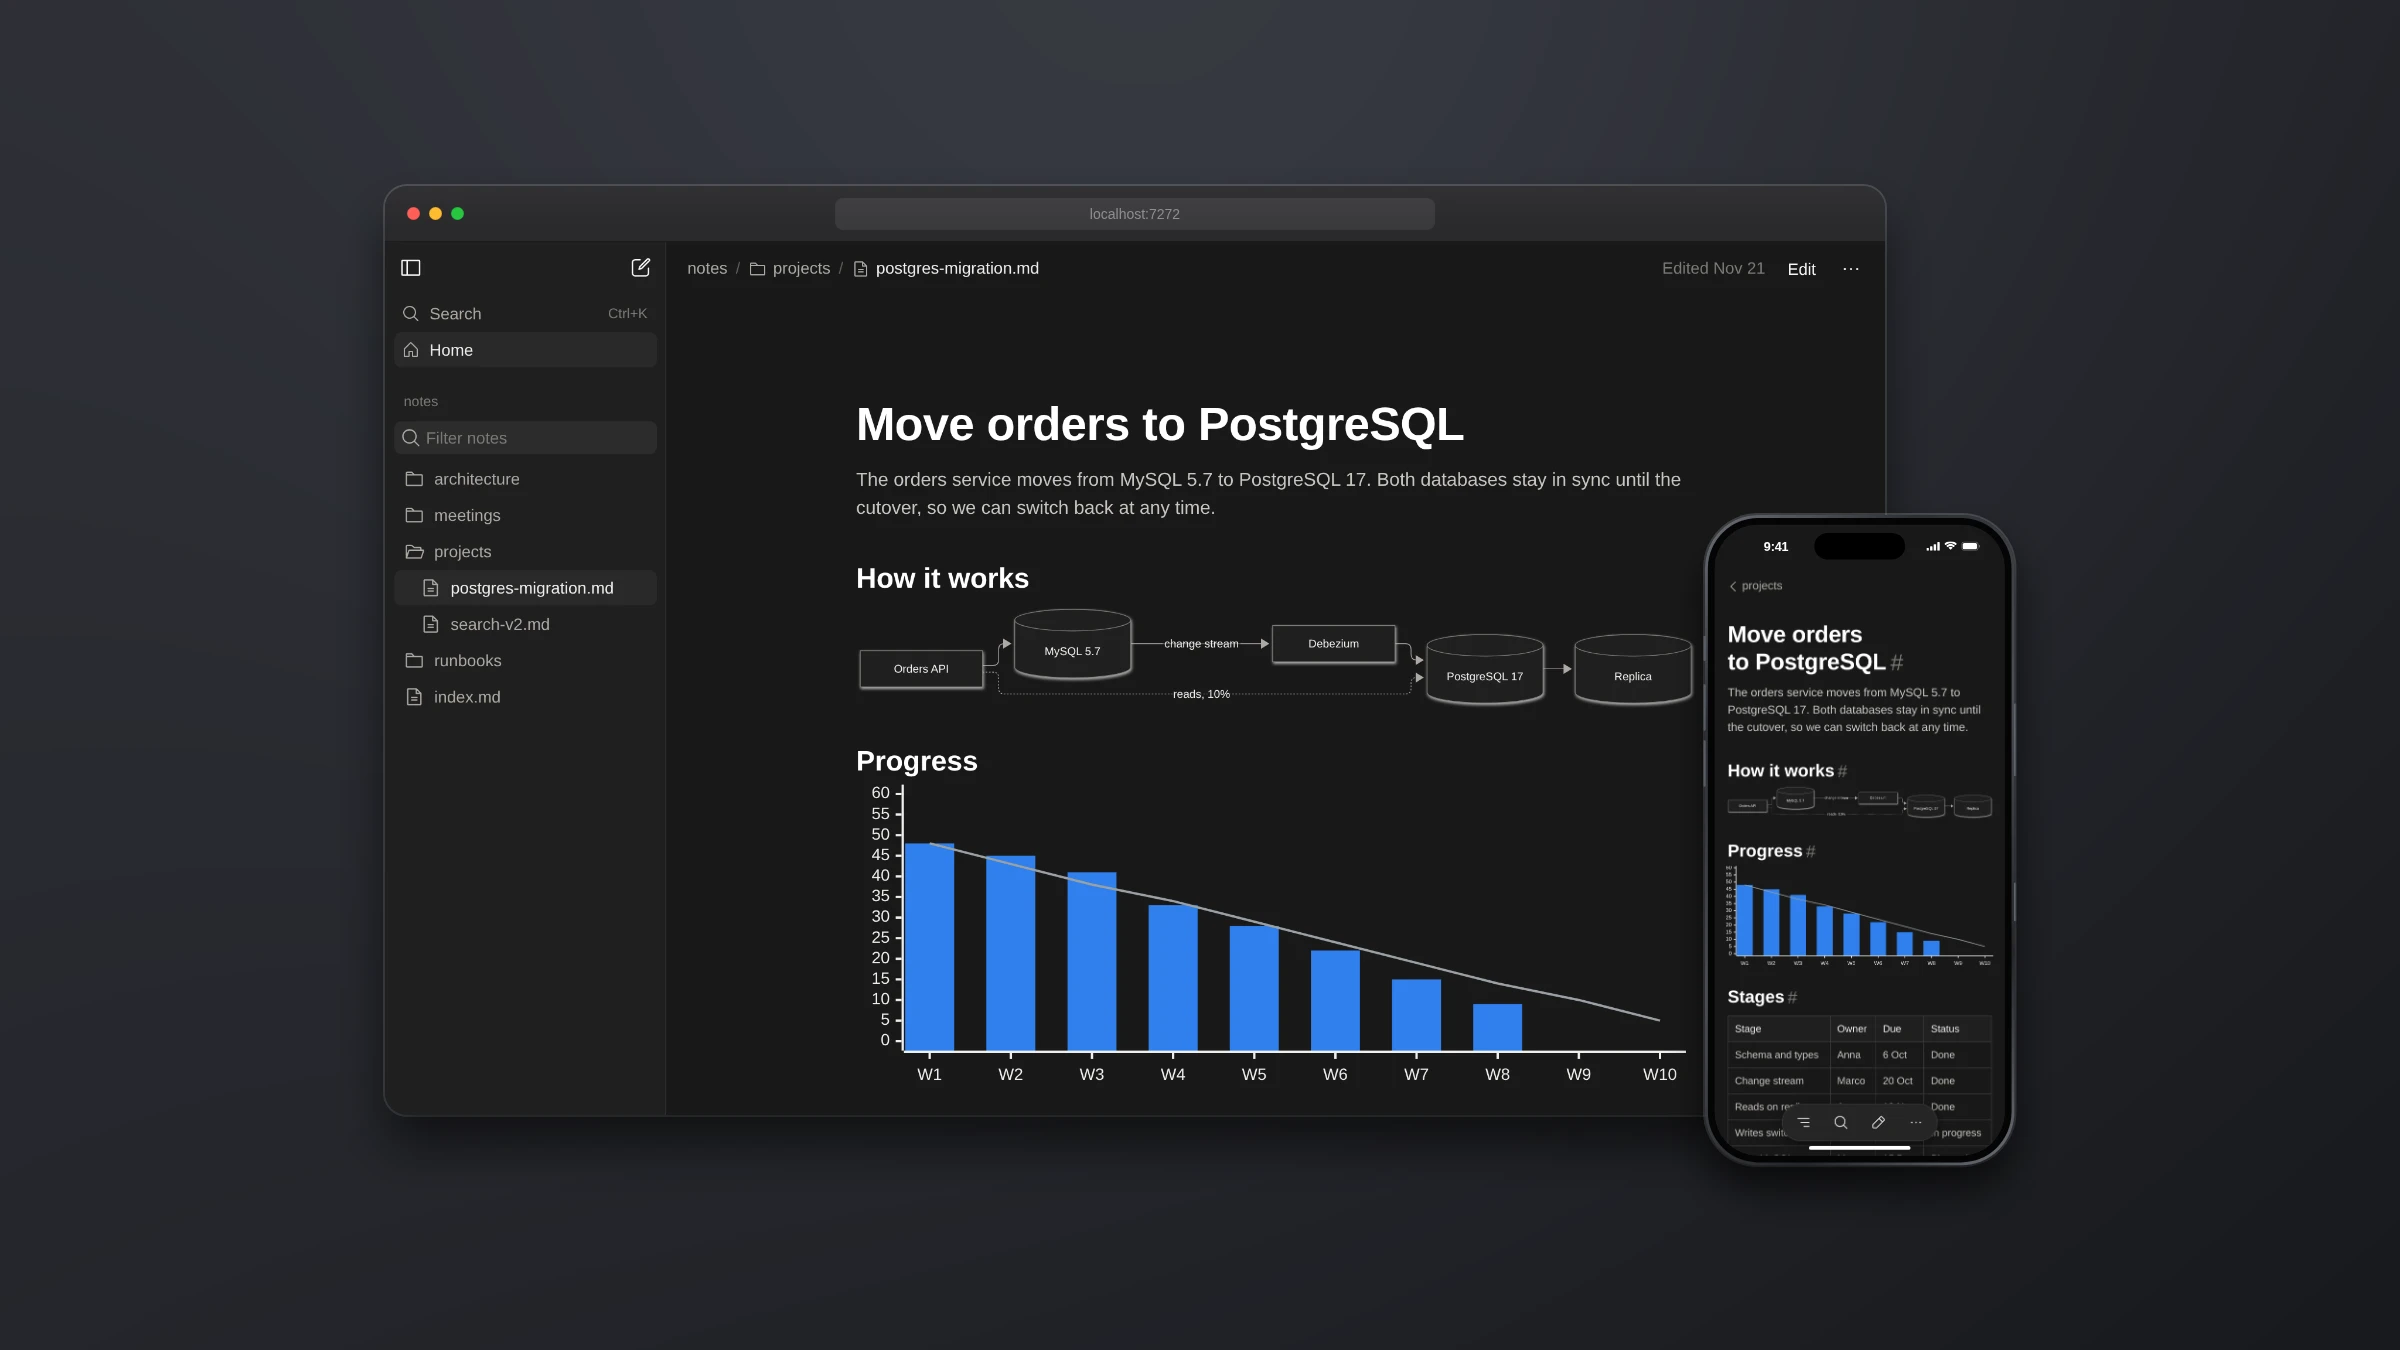
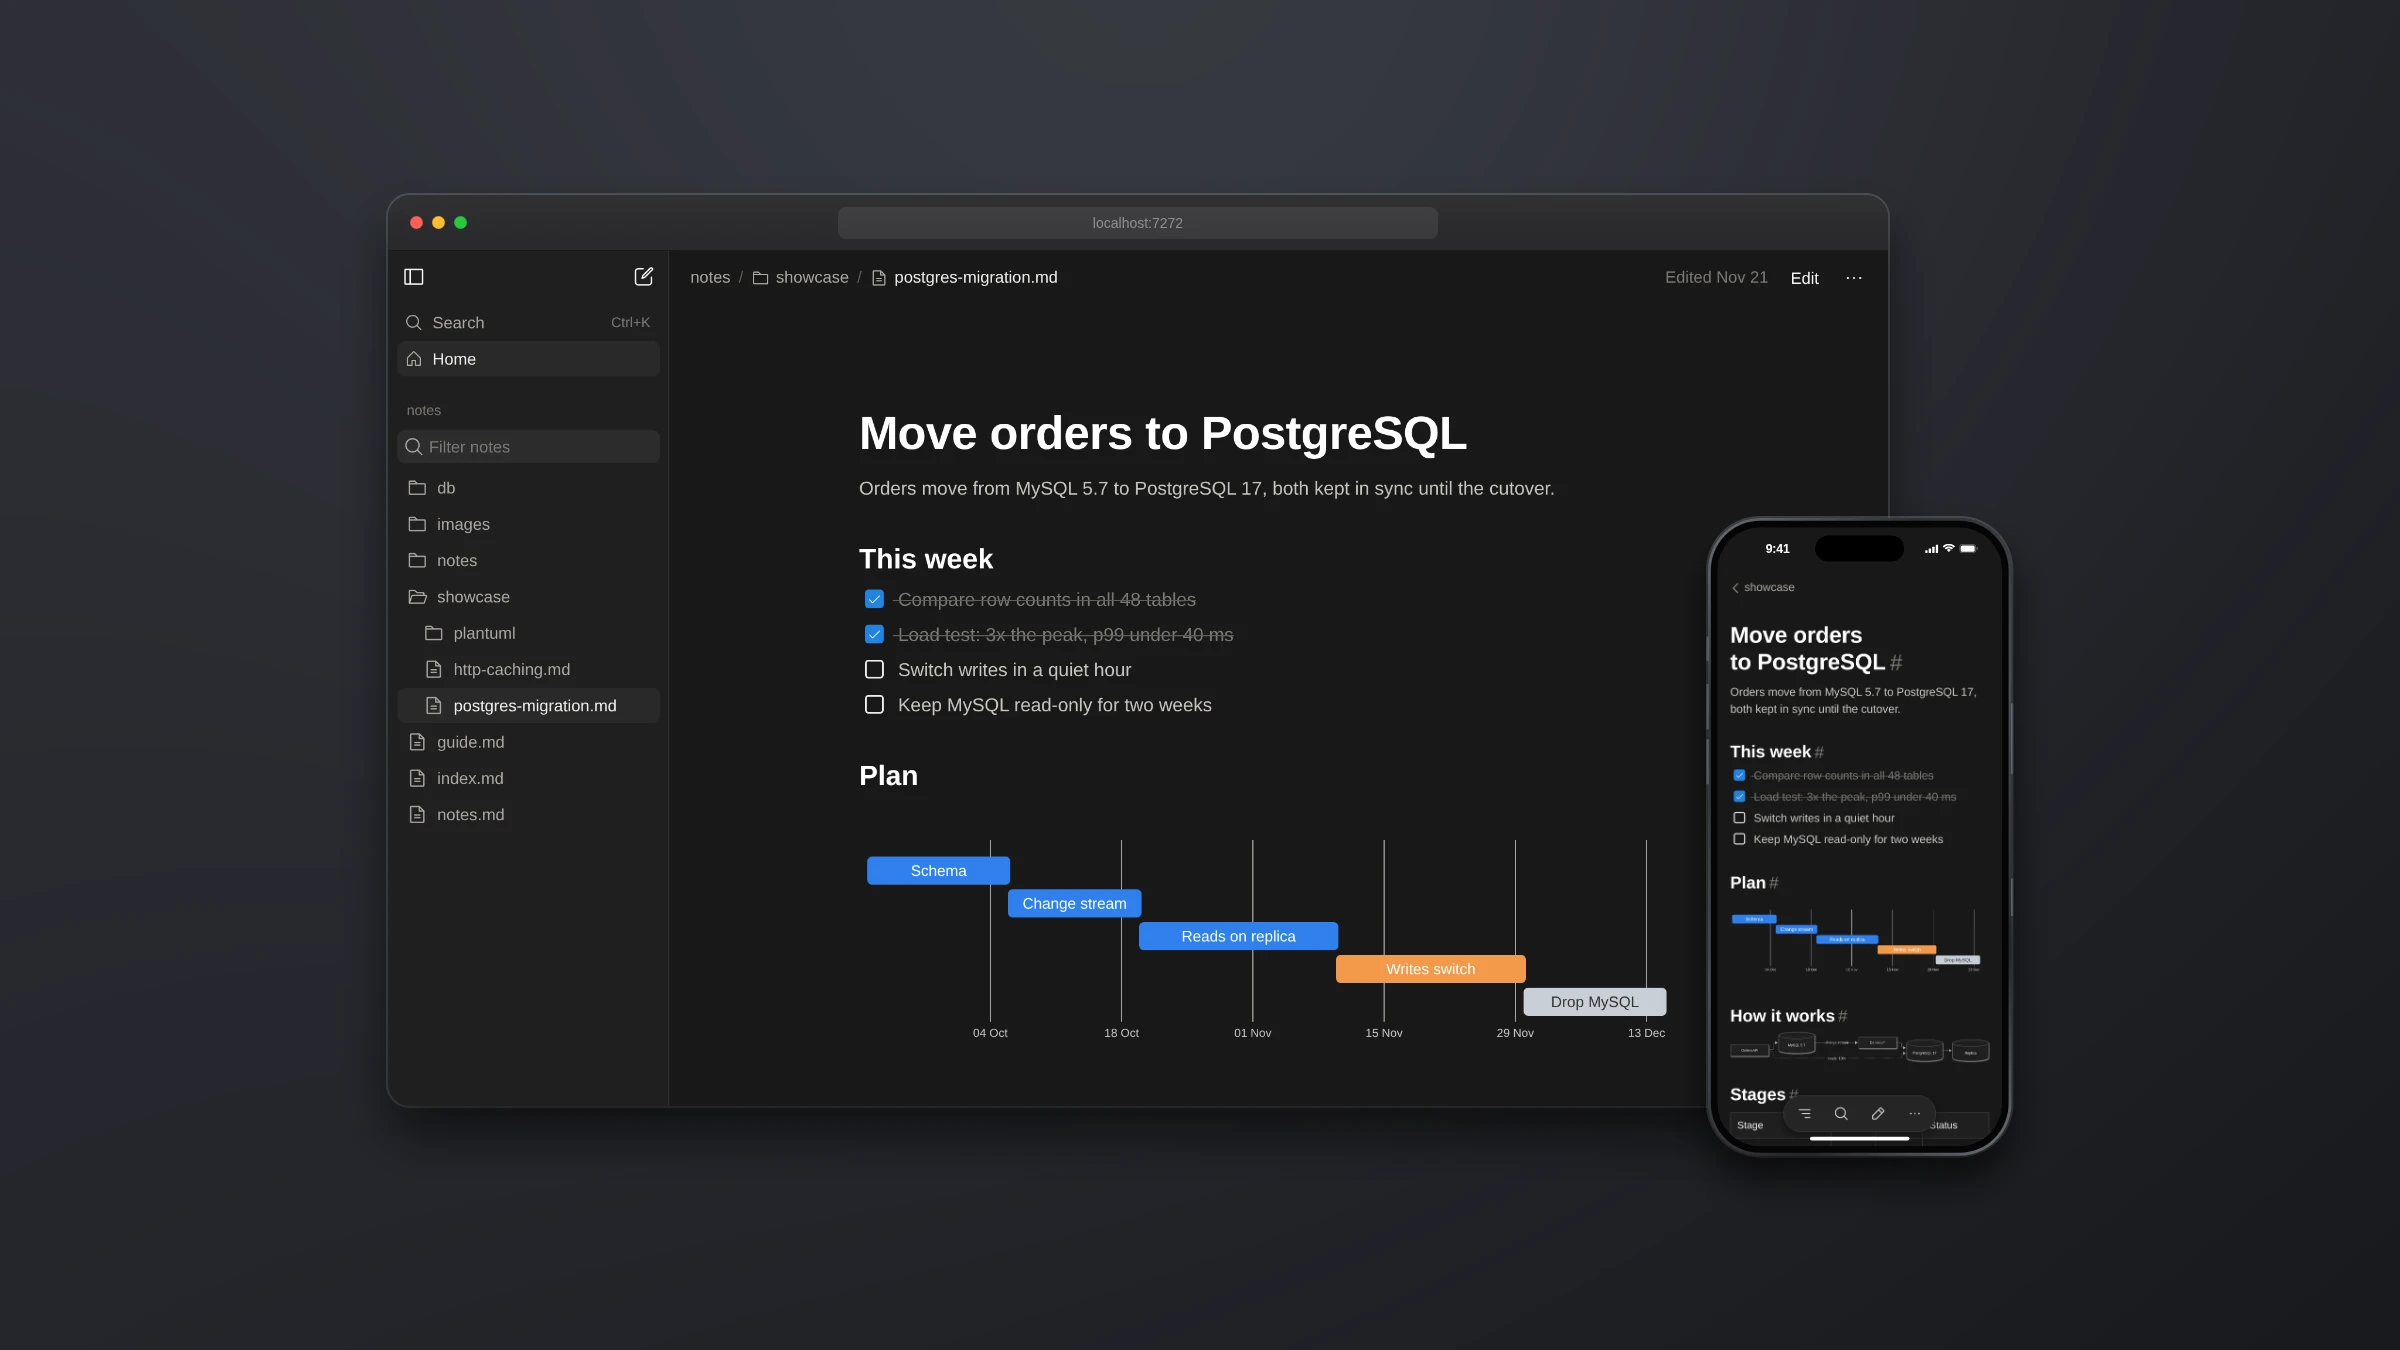
wip

diff --git a/scripts/readme-shots/shoot.js b/scripts/readme-shots/shoot.js
@@ -7,7 +7,7 @@ const {spawn} = require('child_process');
 const repoRoot = path.resolve(__dirname, '..', '..');
 const {chromium} = require(require.resolve('playwright', {paths: [path.join(repoRoot, 'e2e')]}));
 
-const NOTE = 'projects/postgres-migration.md';
+const NOTE = 'showcase/postgres-migration.md';
 const SPACE = 'notes';
 const DESKTOP = {width: 1280, height: 800, scale: 2, cropMargin: 4};
 const PHONE = {width: 402, height: 874, statusBar: 62, homeIndicator: 34, scale: 3};
@@ -30,7 +30,7 @@ function freePort() {
 
 async function serve(binary, work) {
     const root = path.join(work, 'notes');
-    fs.cpSync(path.join(__dirname, 'notes'), root, {recursive: true});
+    fs.cpSync(path.join(repoRoot, 'examples', 'data'), root, {recursive: true});
     const port = await freePort();
     const child = spawn(binary, [
         'serve', `--listen=127.0.0.1:${port}`, `--space.dir=${root}`, `--space.name=${SPACE}`,

diff --git a/examples/data/showcase/postgres-migration.md b/examples/data/showcase/postgres-migration.md
@@ -1,0 +1,75 @@
+# Move orders to PostgreSQL
+
+Orders move from MySQL 5.7 to PostgreSQL 17, both kept in sync until the
+cutover.
+
+## This week
+
+- [x] Compare row counts in all 48 tables
+- [x] Load test: 3x the peak, p99 under 40 ms
+- [ ] Switch writes in a quiet hour
+- [ ] Keep MySQL read-only for two weeks
+
+## Plan
+
+```mermaid
+---
+config:
+  gantt:
+    useWidth: 720
+    barHeight: 22
+    barGap: 6
+    leftPadding: 10
+    rightPadding: 30
+    fontSize: 13
+    sectionFontSize: 13
+  themeVariables:
+    doneTaskBkgColor: "#2f80ed"
+    doneTaskBorderColor: "#2f80ed"
+    activeTaskBkgColor: "#f2994a"
+    activeTaskBorderColor: "#f2994a"
+    taskBkgColor: "#c9ced6"
+    taskBorderColor: "#c9ced6"
+    taskTextColor: "#333333"
+    taskTextDarkColor: "#ffffff"
+    taskTextOutsideColor: "#8a8f98"
+    gridColor: "#9aa0a6"
+    sectionBkgColor: "transparent"
+    altSectionBkgColor: "transparent"
+---
+gantt
+  dateFormat YYYY-MM-DD
+  axisFormat %d %b
+  tickInterval 2week
+  todayMarker off
+  Schema :done, 2026-09-21, 2026-10-06
+  Change stream :done, 2026-10-06, 2026-10-20
+  Reads on replica :done, 2026-10-20, 2026-11-10
+  Writes switch :active, 2026-11-10, 2026-11-30
+  Drop MySQL : 2026-11-30, 2026-12-15
+```
+
+## How it works
+
+```mermaid
+flowchart LR
+  API["Orders API"] --> MY[("MySQL 5.7")]
+  MY -- "change stream" --> CDC["Debezium"] --> PG[("PostgreSQL 17")]
+  API -. "reads, 10%" .-> PG
+  PG --> R[("Replica")]
+```
+
+## Stages
+
+| Stage            | Owner  | Due    | Status      |
+| ---------------- | ------ | ------ | ----------- |
+| Schema and types | Anna   | 6 Oct  | Done        |
+| Change stream    | Marco  | 20 Oct | Done        |
+| Reads on replica | Anna   | 10 Nov | Done        |
+| Writes switch    | Li Wei | 30 Nov | In progress |
+| Drop MySQL       | Marco  | 15 Dec | Planned     |
+
+## Rollback
+
+Point the API back to MySQL in the config and restart it. The change stream
+keeps MySQL up to date until the end of the cutover, so no order is lost.

diff --git a/CLAUDE.md b/CLAUDE.md
@@ -49,10 +49,11 @@ web/icons.ts           the script that draws them, not the icon set of
 web/vite.icons.ts      the build step that keeps only the icon weights
                        the app draws
 e2e/                   playwright suite against a real binary
-examples/data/         sample notes: tests, `make run` and the browser suite
+examples/data/         sample notes: tests, `make run`, the browser suite and
+                       the hero picture of the README
 scripts/               try-sync.sh, the sync states of a clone tried by hand,
-                       readme-shots/, the hero picture of the README and
-                       the notes it shows
+                       readme-shots/, the script of the hero picture of the
+                       README
 vendor/                dependencies, checked in, `make deps` regenerates
 docs/design/           how each part works and the rules it keeps
 docs/ui/               how each screen looks and behaves
